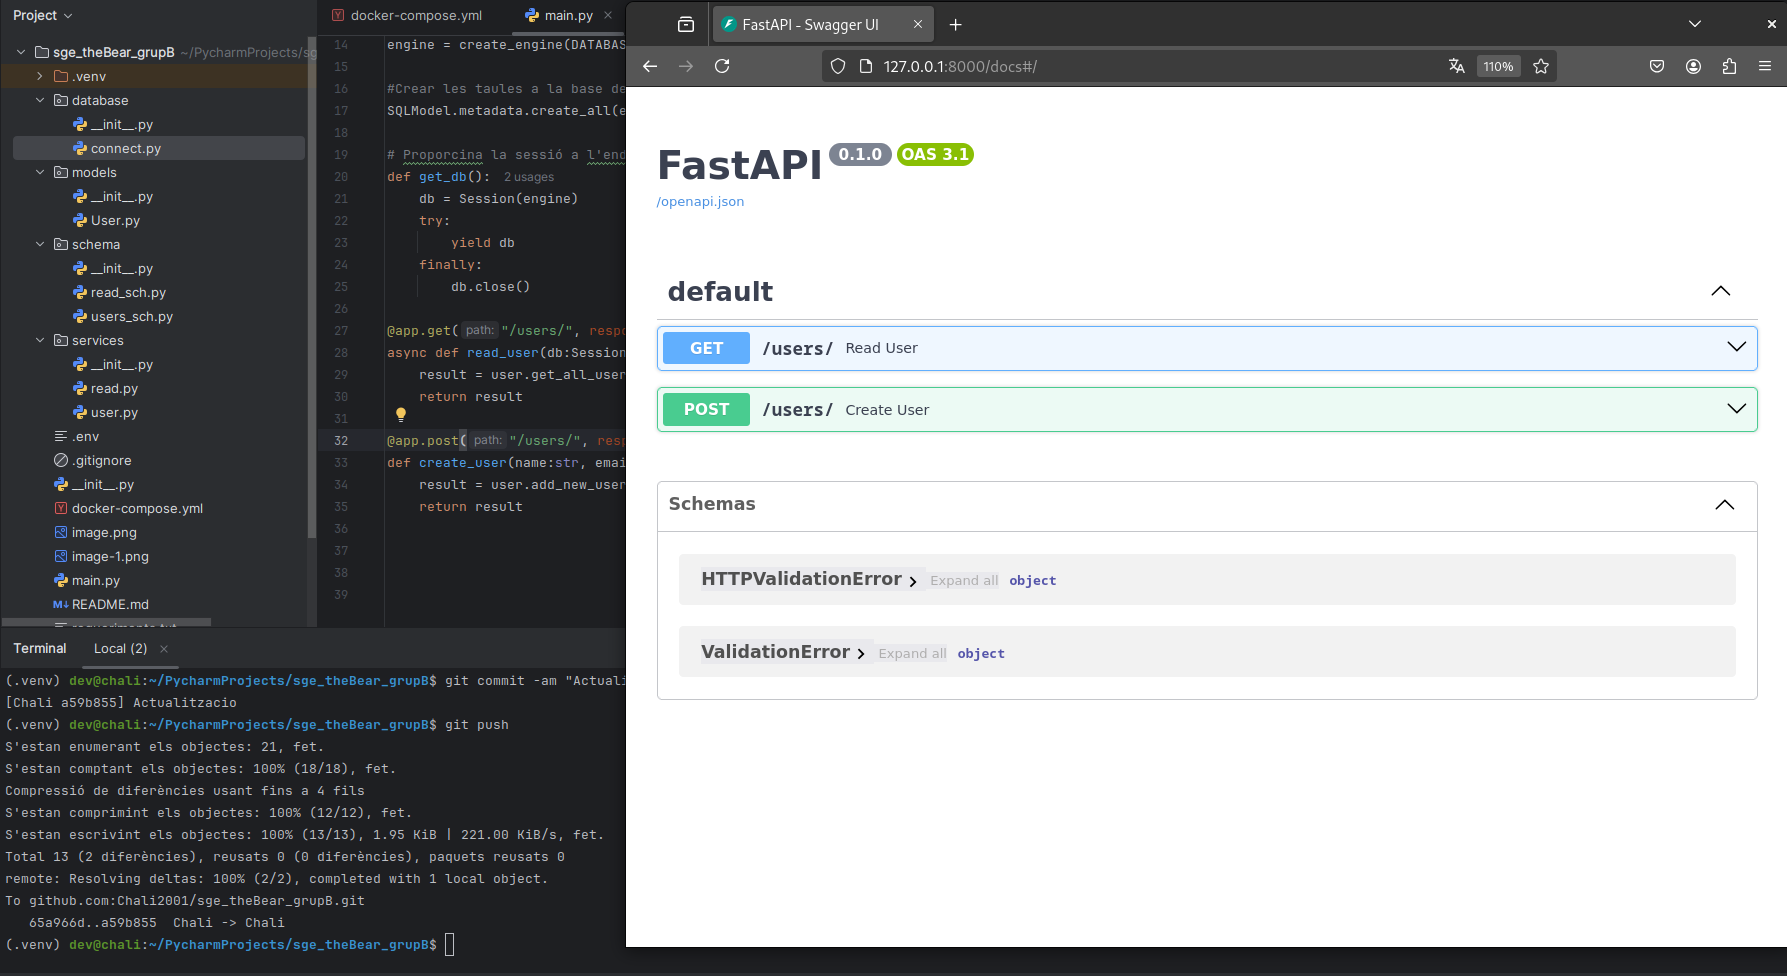
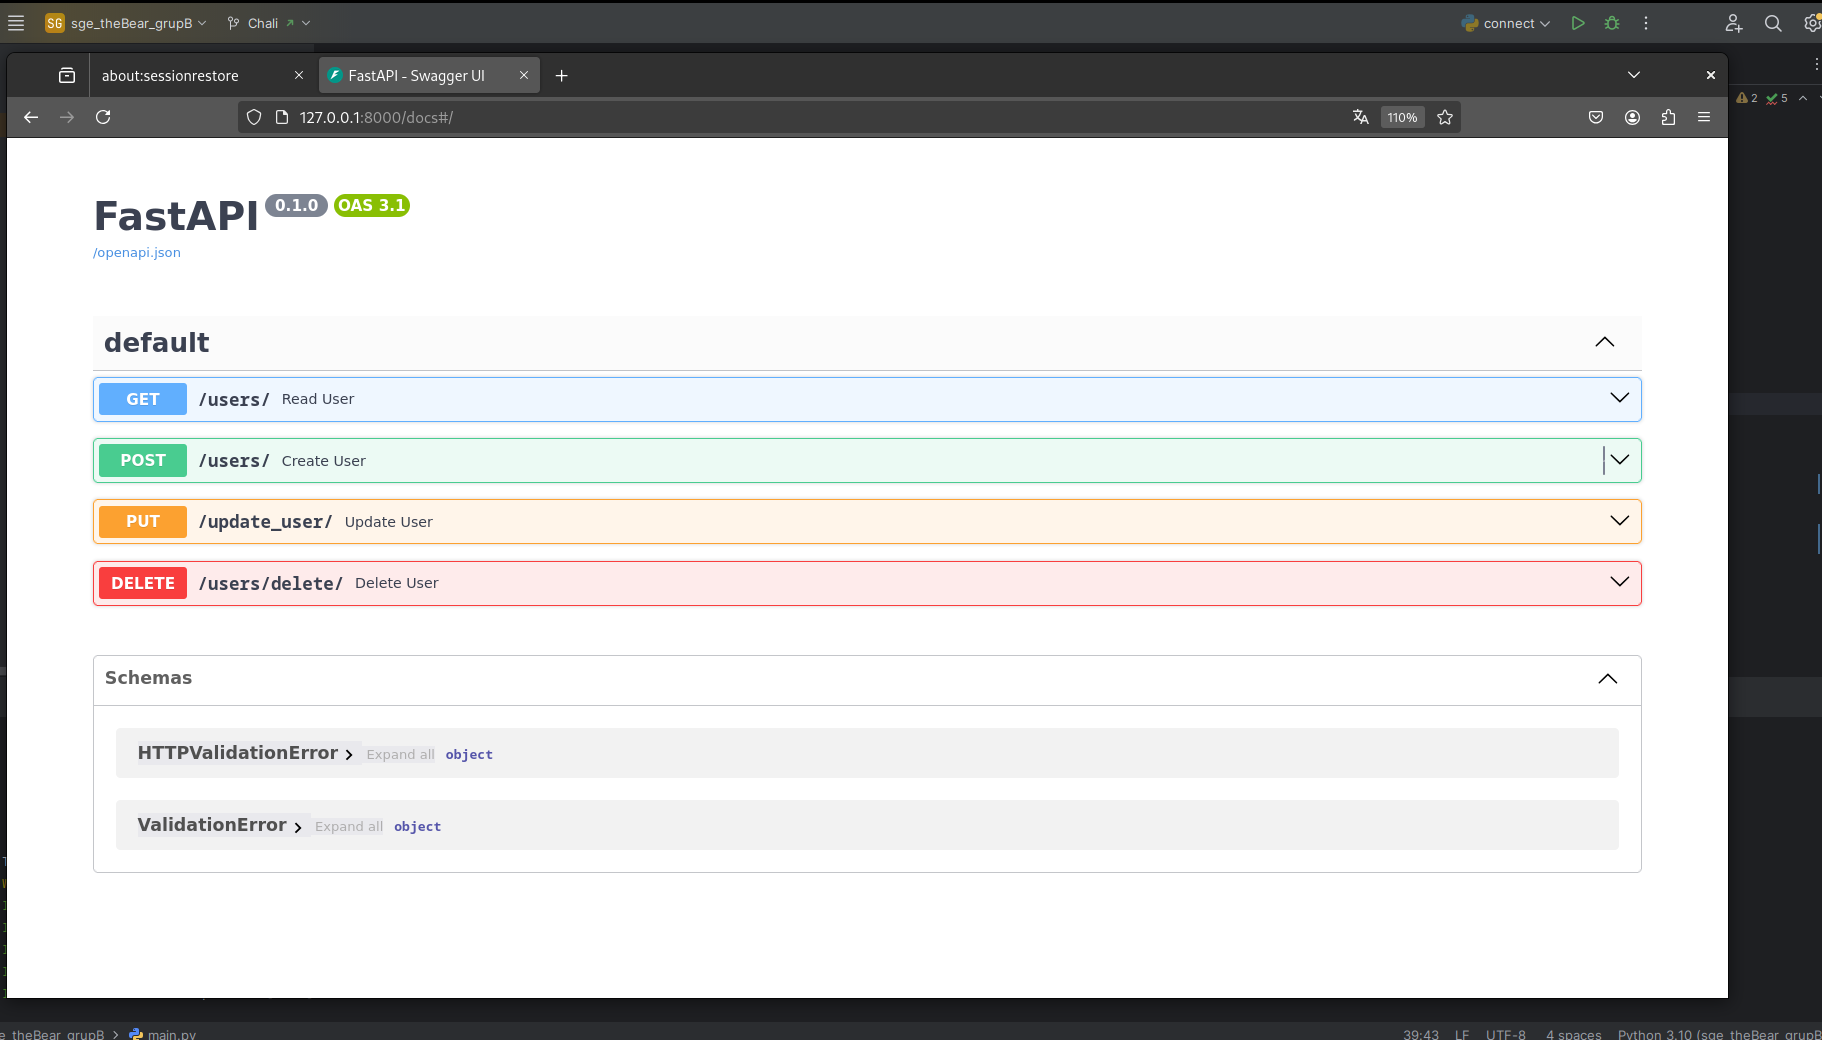
README fet

diff --git a/README.md b/README.md
@@ -1,5 +1,12 @@
-# sge_theBear_grupB
-![alt text](image.png)
-# Aixi veiem el inici
-![alt text](image-1.png)
-# Aqui podem crear el Usuari amb el seu correu personal
+![image](image.png)
+Així es mostra quan entrem amb les 4 opcions
+![image2](image2.png)
+Mostra les 2 persones que tenim afegides a la nostra base de dades
+![image3](image3.png)
+Actualitzem 1 nom de les persones que tenim guardades
+![image4](image4.png)
+S'ha canviat de nom Juan a Pablo
+![image5](image5.png)
+Ara eliminem el mateix
+![image6](image6.png)
+I veiem que de les 2 persones només apareix 1
